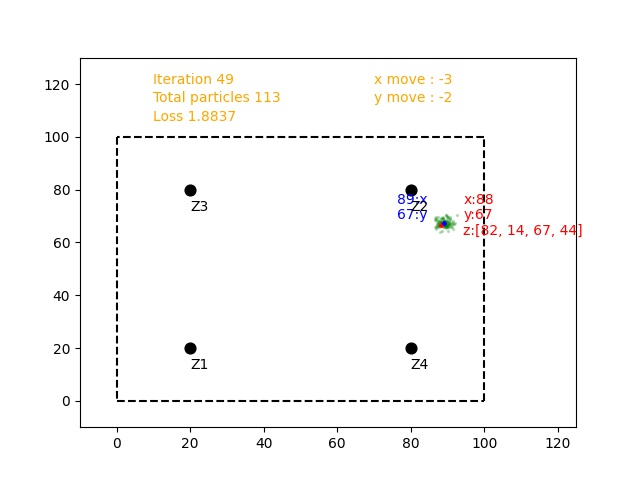
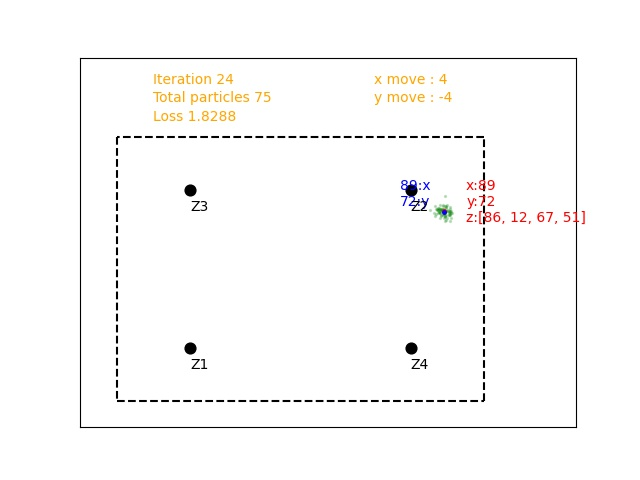
added vide writing to robot.py and removed xy ticks from plot

diff --git a/robot.py b/robot.py
@@ -1,5 +1,8 @@
+import os
+import cv2
 import time
 import random
+import shutil
 from math import *
 import matplotlib.pyplot as plt
 from scipy.stats import bernoulli
@@ -113,7 +116,7 @@ class Robot():
         return '[x_pos: {}  y_pos: {}]'.format(self.x_pos, self.y_pos)
 
 
-def plot_model(map, landmarks, robot, particles, iter, n_particles, x_move, y_move, sensor_z):
+def plot_model(map, landmarks, robot, particles, iter, n_particles, x_move, y_move, sensor_z, img_save_dir):
     plt.plot((0, 0), (map[0], 0), "--", c="black")
     plt.plot((map[0], 0), (map[0], map[1]), "--", color="black")
     plt.plot((map[0], map[1]), (0, map[1]), "--", color="black")
@@ -150,8 +153,11 @@ def plot_model(map, landmarks, robot, particles, iter, n_particles, x_move, y_mo
     ax = plt.gca()
     ax.set_xlim([-10, map[0]+25])
     ax.set_ylim([-10, map[1]+30])
+    ax.set_xticks([])
+    ax.set_yticks([])
 
-    plt.savefig(f"robot.jpg")
+    plt.savefig(f"{img_save_dir}{iter}.jpg")
+    plt.savefig("robot.jpg")
     plt.close()
 
 
@@ -218,7 +224,7 @@ def get_moves(xdirection, ydirection):
     return x_move, y_move
 
 
-def apply_particle_filter(map, landmarks, n_particles, n_iter):
+def apply_particle_filter(map, landmarks, n_particles, n_iter, img_save_dir):
     robot = Robot(map, landmarks)
     robot.set_noise([1.0, 1.5])
 
@@ -238,7 +244,7 @@ def apply_particle_filter(map, landmarks, n_particles, n_iter):
     for iter in range(n_iter):
         sensor_z = robot.sense()
 
-        plot_model(map, landmarks, robot, particles, iter, n_particles, x_move, y_move, sensor_z)
+        plot_model(map, landmarks, robot, particles, iter, n_particles, x_move, y_move, sensor_z, img_save_dir)
         
         weights = []
         for p in particles:
@@ -271,12 +277,25 @@ def apply_particle_filter(map, landmarks, n_particles, n_iter):
         for p in particles:
             p.move(x_move, y_move)
 
-        time.sleep(1)
-
-    return robot, particles
+        time.sleep(0.5)
 
 
 if __name__ == '__main__':
+    dir_path = ".temp_images/"
+    if os.path.isdir(dir_path):
+        shutil.rmtree(dir_path)
+    os.mkdir(dir_path)
+
     map = [100, 100]
     landmarks = [[20., 20.], [80., 80], [20., 80.], [80., 20.]]
-    robot, particles = apply_particle_filter(map, landmarks, 100, n_iter=50)
+    apply_particle_filter(map, landmarks, 100, n_iter=25, img_save_dir=dir_path)
+
+    fourcc = cv2.VideoWriter_fourcc(*'mp4v')
+    videowriter = cv2.VideoWriter("robot.mp4", fourcc, 1, (640,480))
+
+    for im in sorted(os.listdir(dir_path), key=lambda x: int(x.split(".")[0])):
+        img = cv2.imread(dir_path + im)
+        videowriter.write(img)
+
+    videowriter.release()
+    shutil.rmtree(dir_path)
